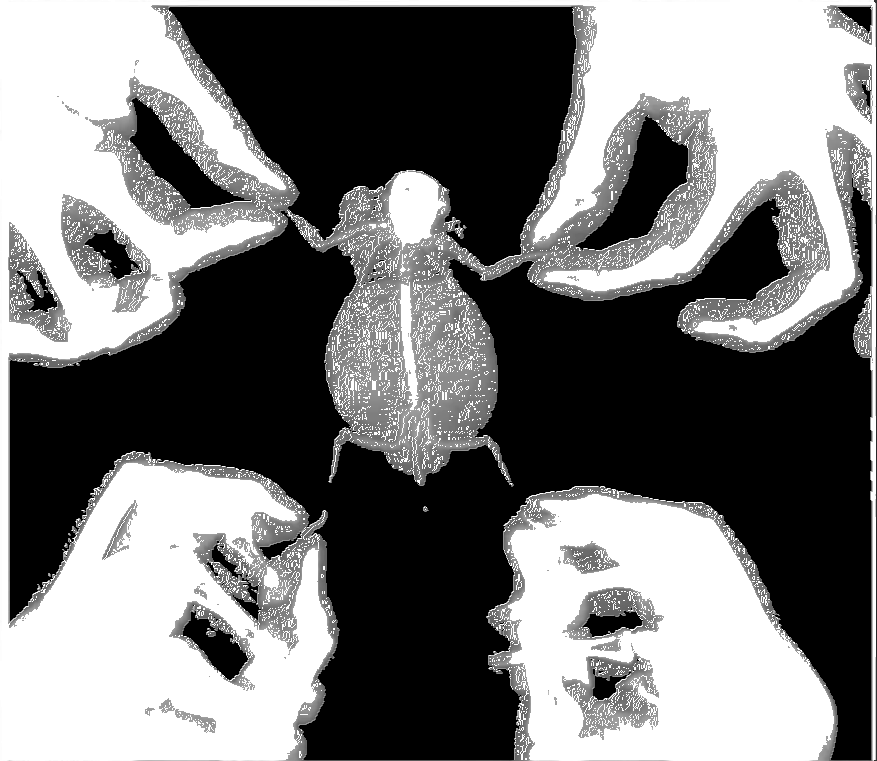
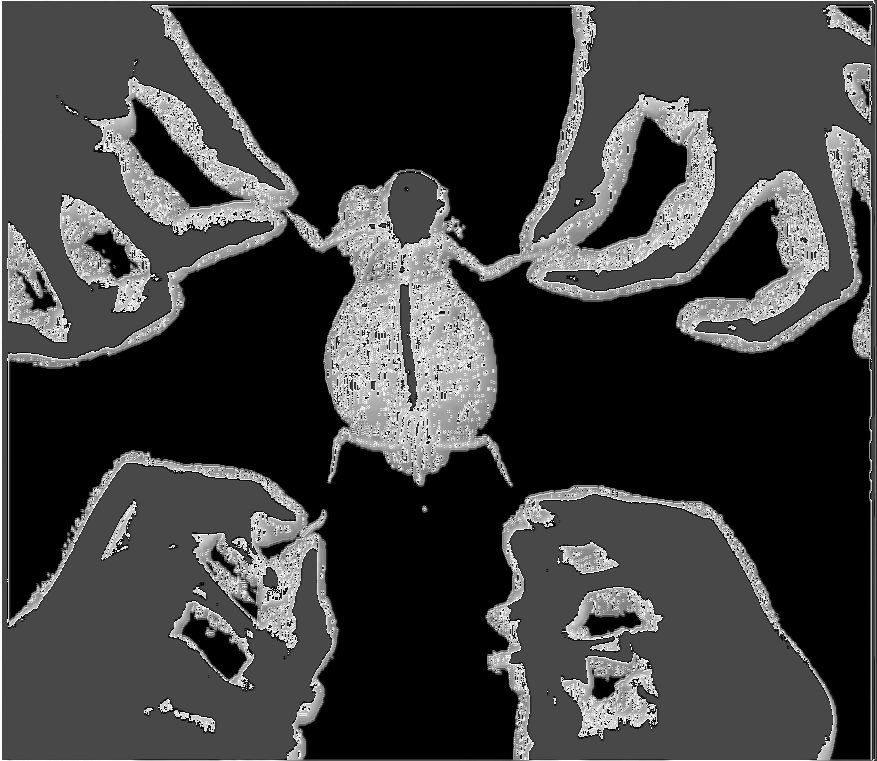
Gauss added

diff --git a/work/main.c b/work/main.c
@@ -50,25 +50,9 @@ int main() {
     unsigned char x, y, s;
     for (i = 2; i < ih - 1; i++) {
         for (j = 2; j < iw - 1; j++) {
-
             //Roberts
             x = MyImage[iw*(i-1)+(j-1)] - MyImage[iw*i+j];
             y = MyImage[iw*(i-1)+j] - MyImage[iw*i+(j+1)];
-/*
-            //casual Sobel
-            x = MyImage[iw*(i-1)+(j-1)] + 2*MyImage[iw*i+(j-1)] + MyImage[iw*(i+1)+(j-1)];
-            x = x - MyImage[iw*(i-1)+(j+1)] - 2*MyImage[iw*i+(j+1)] - MyImage[iw*(i+1)+(j+1)];
-            y = MyImage[iw*(i-1)+(j-1)] + 2*MyImage[iw*(i-1)+j] + MyImage[iw*(i-1)+(j+1)];
-            y = y - MyImage[iw*(i+1)+(j-1)] - 2*MyImage[iw*(i+1)+j] - MyImage[iw*(i+1)+(j+1)];
-
-*/
-/*
-            //just an experiment
-            x = 0.5*MyImage[iw*(i-1)+(j-1)] + MyImage[iw*i+(j-1)] + 0.5*MyImage[iw*(i+1)+(j-1)];
-            x = x - 0.5*MyImage[iw*(i-1)+(j+1)] - MyImage[iw*i+(j+1)] - 0.5*MyImage[iw*(i+1)+(j+1)];
-            y = 0.5*MyImage[iw*(i-1)+(j-1)] + MyImage[iw*(i-1)+j] + 0.5*MyImage[iw*(i-1)+(j+1)];
-            y = y - 0.5*MyImage[iw*(i+1)+(j-1)] - MyImage[iw*(i+1)+j] - 0.5*MyImage[iw*(i+1)+(j+1)];
-*/
             s = sqrt(x*x + y*y);
             odata[iw*i+j] = s;
         }
@@ -92,6 +76,16 @@ int main() {
         }
     }
 
+    //Gauss
+    for (i = 1; i < ih-1; i++) {
+        for (j = 2; j < iw-1; j++) {
+            MyImage[iw*i+j] = 0.0707355*newIm[iw*i+j] + 0.0566406*newIm[iw*(i+1)+j] + 0.0566406*newIm[iw*(i-1)+j];
+            MyImage[iw*i+j] = MyImage[iw*i+j] + 0.0566406*newIm[iw*i+(j+1)] + 0.0566406*newIm[iw*i+(j-1)];
+            MyImage[iw*i+j] = MyImage[iw*i+j] + 0.453542*newIm[iw*(i+1)+(j+1)] + 0.0453542*newIm[iw*(i+1)+(j-1)];
+            MyImage[iw*i+j] = MyImage[iw*i+j] + 0.453542*newIm[iw*(i-1)+(j+1)] + 0.0453542*newIm[iw*(i-1)+(j-1)];
+        }
+    }
+
     //char* outputPath = "output_arrow_head.png";
     //char* outputPath = "output_arm_break.png";
     //char* outputPath = "output_hamster.png";
@@ -100,7 +94,7 @@ int main() {
 
     // записываем картинку
     int one = 1; int zero = 0;
-    stbi_write_png(outputPath, iw, ih, one, newIm, zero);
+    stbi_write_png(outputPath, iw, ih, one, MyImage, zero);
     //stbi_image_write(outputPath, iw, ih, 2, MyImage, 0);
     //printf("Изображение размера %d в высоту и %d в ширину с количеством каналов %d считано", ih, iw, n);
     stbi_image_free(idata);
